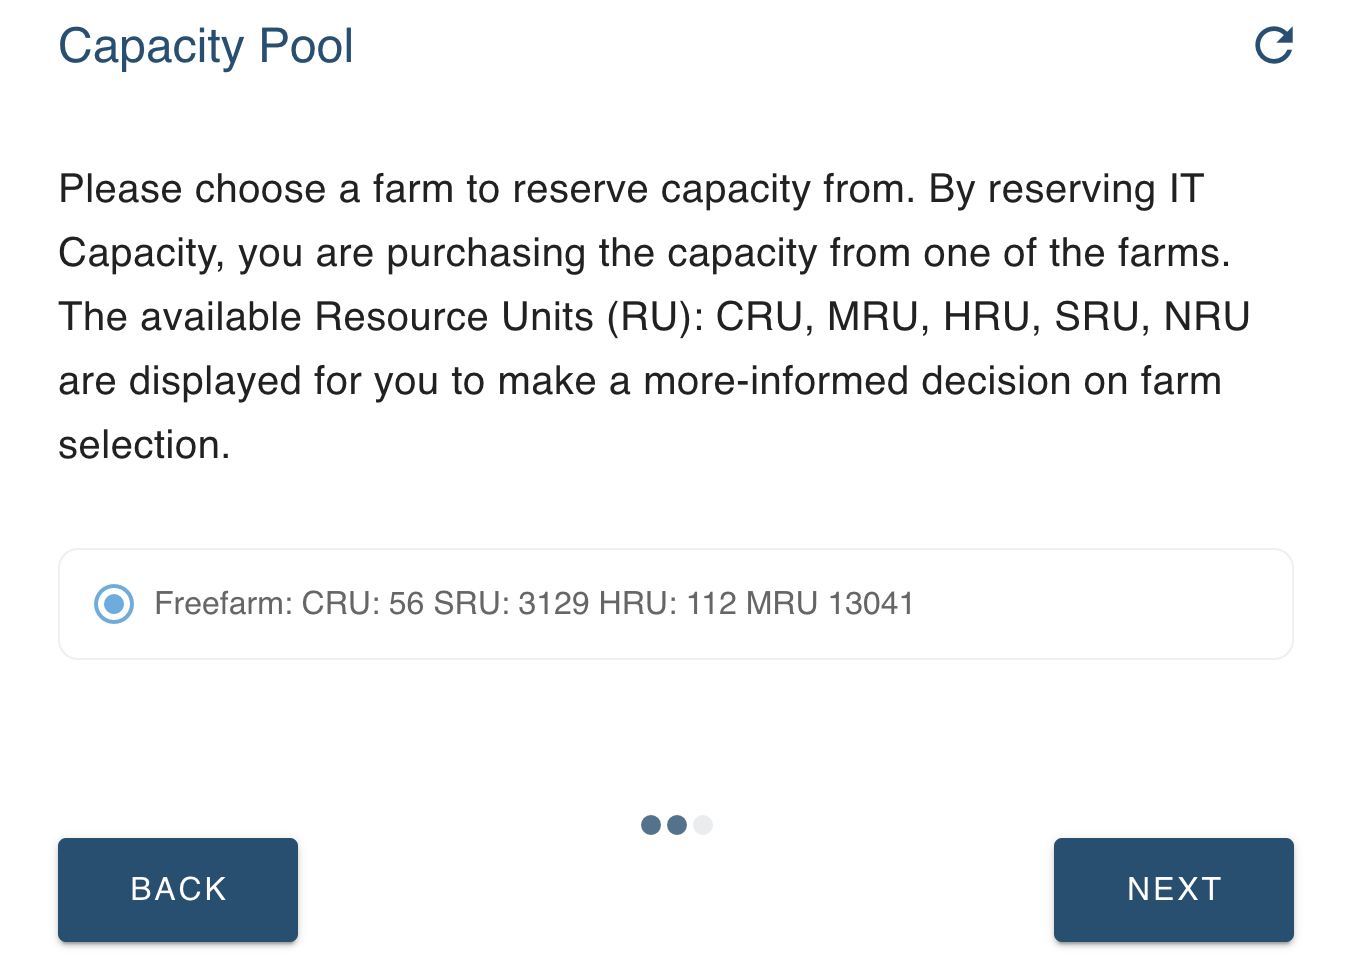
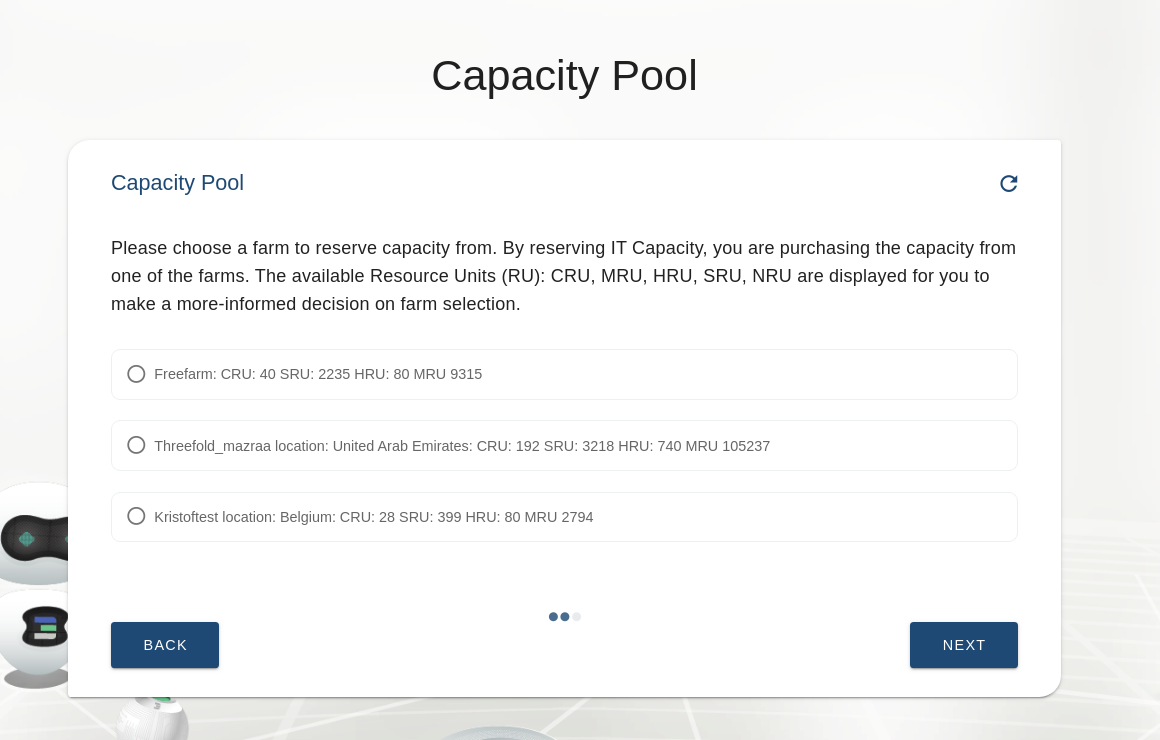
update pool doc

diff --git a/src/3bot_sysadmin/admin_tools/3bot_capacity_new.md b/src/3bot_sysadmin/admin_tools/3bot_capacity_new.md
@@ -11,8 +11,7 @@ Select __'Create'__ if you have not created any capacity pool before, or if you 
 
 ### Specify the Amount of CU and SU You Want to Add to the New Capacity Pool
 
-![](./img/3bot_capacity_new_resource_1.png)
-![](./img/3bot_capacity_new_resource_2.png)
+![](./img/3bot_capacity_new_resource.png)
 
 __CU__ stands for __Compute Unit__; it is the amount of data processing power specified as the number of virtual CPU cores (logical CPUs) and RAM (Random Access Memory). __SU__ stands for __Storage Unit__; it is the size of data storage capacity. CU and SU are components of __TF's Cloud units__; the components that account for farmed and used capacity. Cloud units are the compute, storage and network equivalent to kWh - kilowatt-hour - the unit of energy. 
 
@@ -24,17 +23,12 @@ Feel free to go to [__Grid Concept__](https://wiki.threefold.io/#/grid_concepts?
 Specify also the __Pools Time-to-live__. 
 Remark: this is a theoretical value. It assumes that the fully reserved capacity is depleted after the indicated number of units and under the condition that the capacity is fully used. In practice, only the capacity that is consumed by deployed IT workloads reduces the counter. 
 
-After you specified your workload demand, choose the token you intend to pay with.
-
-Remark: FreeTFT are free tokens, but also only give access to the nodes that can be paid with this token. So it gives access to only a subset of the grid. In the [TF Grid explorer](https://explorer.grid.tf) there is an indication of which nodes can be paid with FreeTFT. 
-
-![](./img/3bot_capacity_new_freetouse.png)
 
 ### Choose Your Farm Preference to reserve IT Capacity From
 
 ![](./img/3bot_capacity_new_select_farm.png)
 
-Please keep in mind that capacity on testnet is limited. We only listed one 'demo farm' as a farm to reserve testnet IT Capacity from. On a mainnet environment there are many farms available to choose from, you would eventually be able to choose to reserve IT capacity from one of your preferred farms.
+Please keep in mind that capacity on testnet is limited. We only listed one 'demo farm' as a farm to reserve testnet IT Capacity from so please make sure to allow over provisioning from the settings tab in dashboard and for more info visit [over provisioning page](https://manual2.threefold.io/#/3bot_settings?id=developers-options). On a mainnet environment there are many farms available to choose from, you would eventually be able to choose to reserve IT capacity from one of your preferred farms.
 
 ### Prepare to Pay for the Reserved IT Capacity
 
@@ -50,9 +44,7 @@ Once payment is signed for, the payment process starts.
 
 ![](./img/3bot_capacity_new_payment_process.png)
 
-### Confirm Your Payment
 
-![](./img/3bot_capacity_new_success.png)
 
 Go back to the admin panel page, click __next__ on the previous payment page to check if you have successfuly made the payment via your wallet. The screen would show the above instruction once the payment is successfully made. Please resend the payment via wallet if you did not do it successfully, or [__contact our helpdesk__](https://threefoldfaq.crisp.help/en/) for payment assistance.
 

diff --git a/src/3bot_sysadmin/admin_tools/3bot_capacity_extend.md b/src/3bot_sysadmin/admin_tools/3bot_capacity_extend.md
@@ -22,14 +22,13 @@ For the definition of the 3 fields above (CU, SU, time-to-live), please check [C
 
 Indicate also the token you wish to pay with. It does not matter what was the token you paid with for previous capacity pool reservations. 
 
-![](./img/3bot_capacity_extend_resource_1.png)
-![](./img/3bot_capacity_extend_resource_2.png)
+![](./img/3bot_capacity_new_resource.png)
 
 Remark: The values to be introduced are about the extended volumes, not the resulting capacity after extension. 
 
 ### Prepare to Pay for the Reserved IT Capacity
 
-![](./img/3bot_capacity_extend_pay.png)
+![](./img/3bot_capacity_new_pay.png)
 
 ### Confirm Your Payment
 
